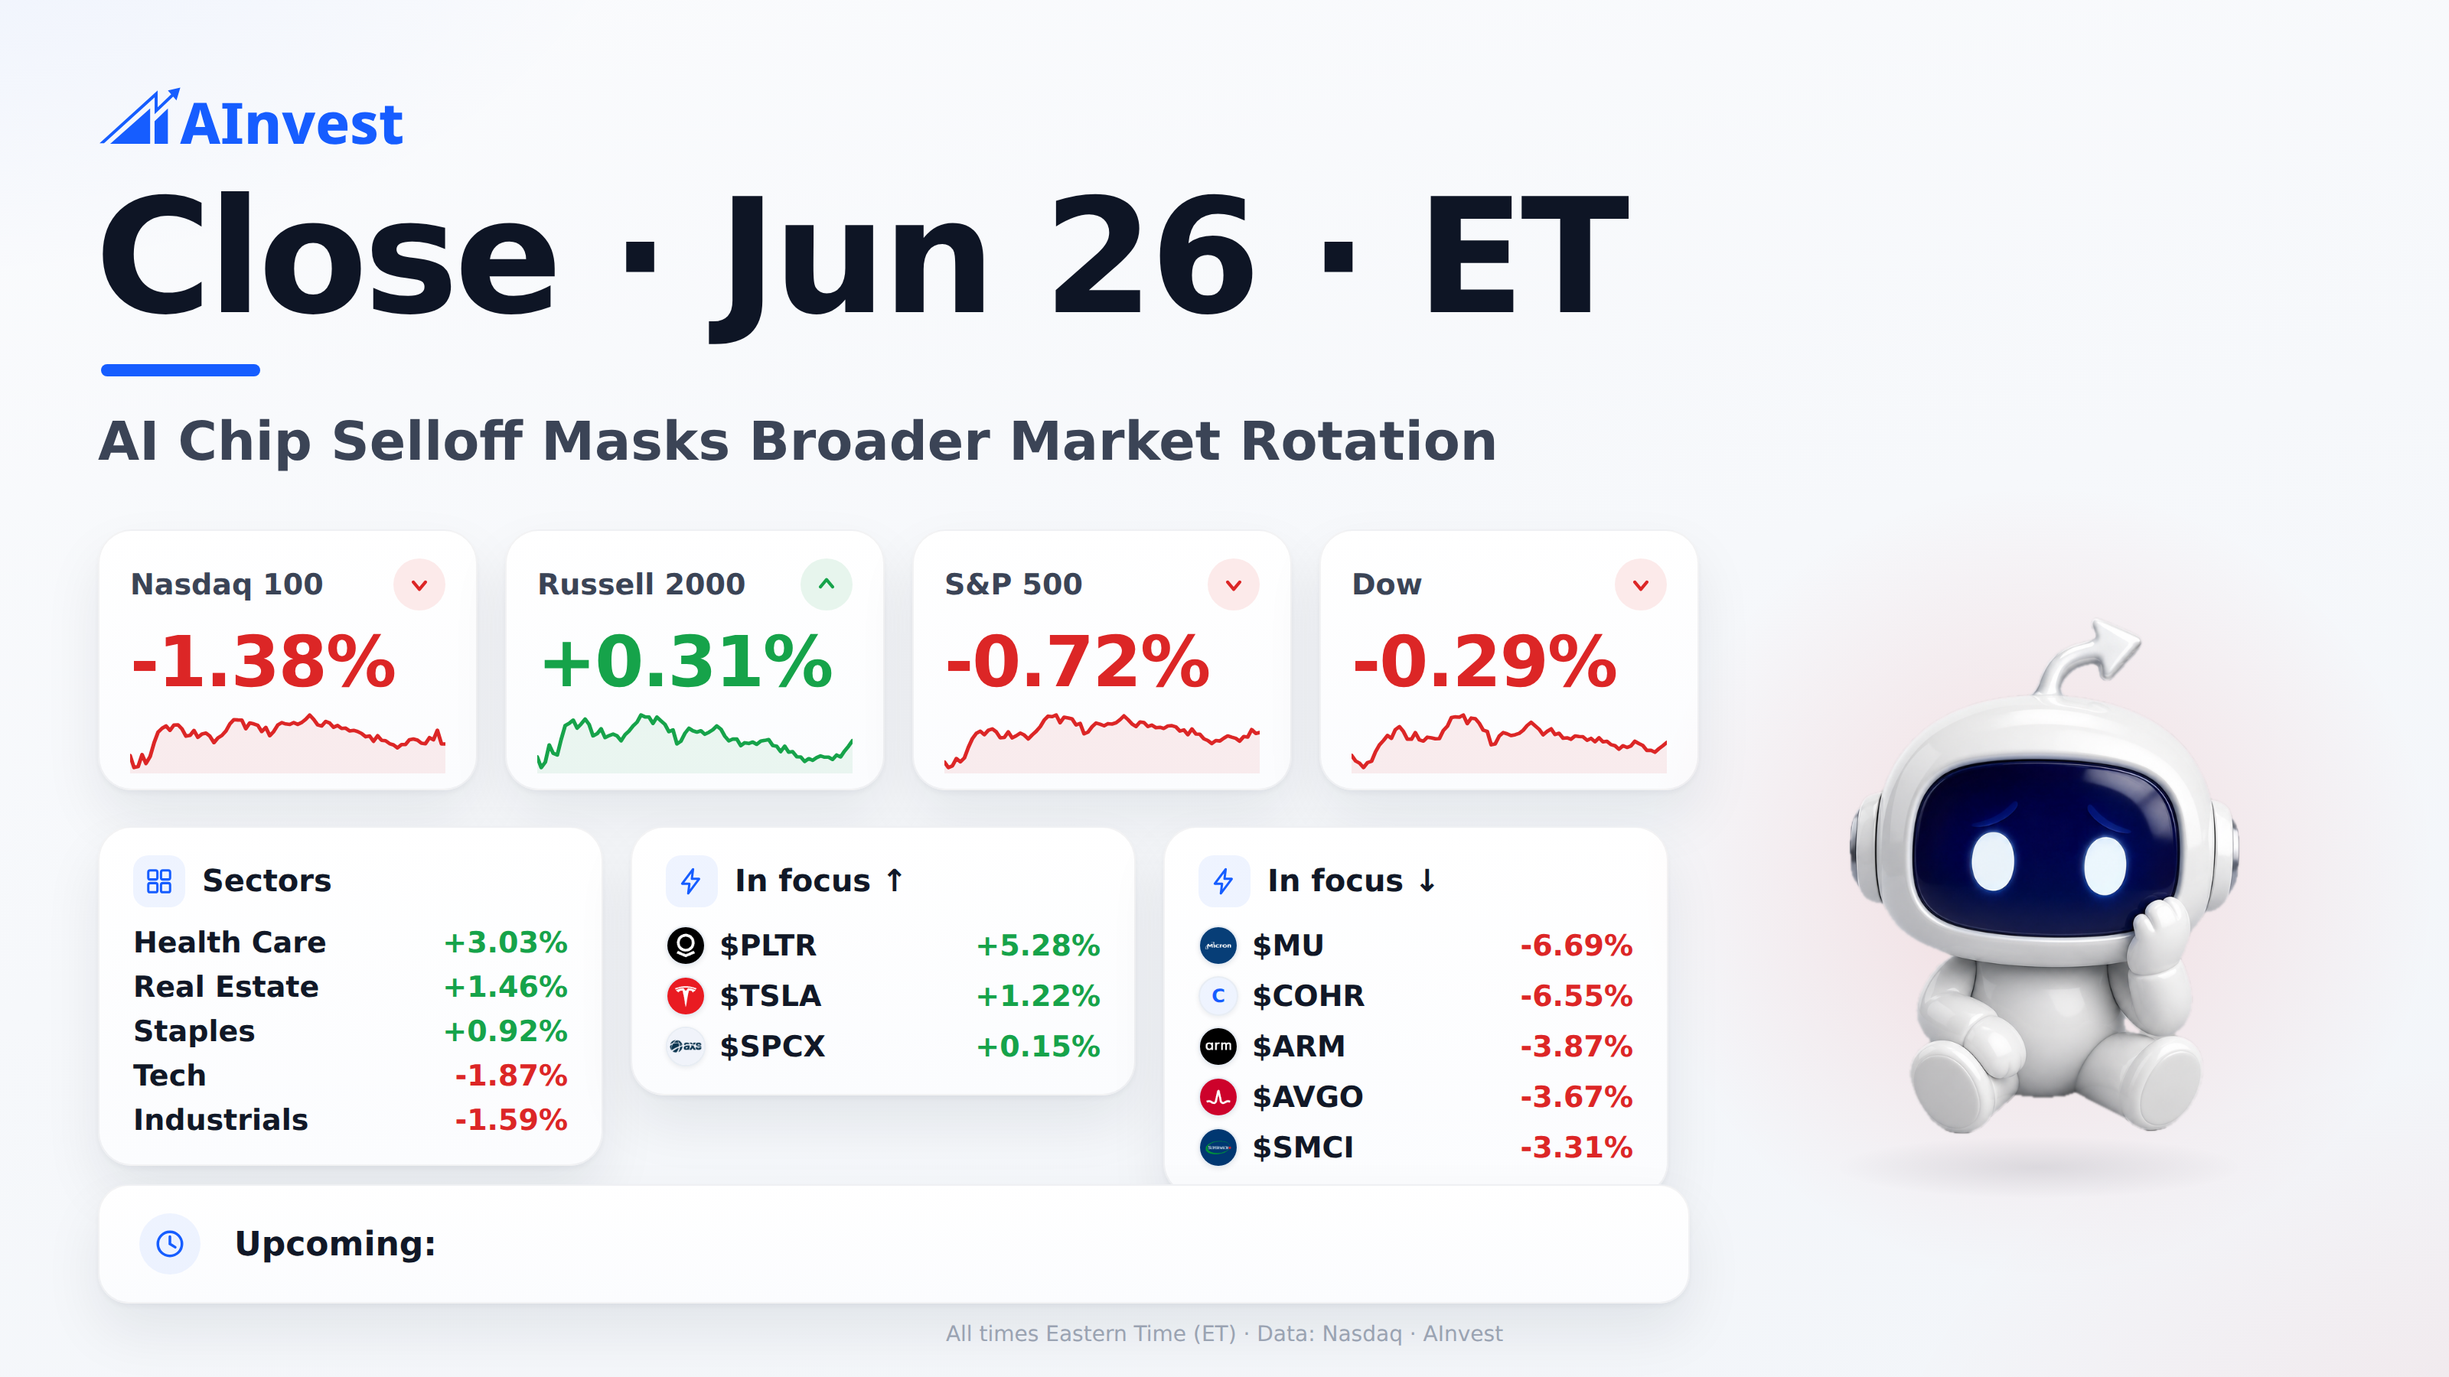
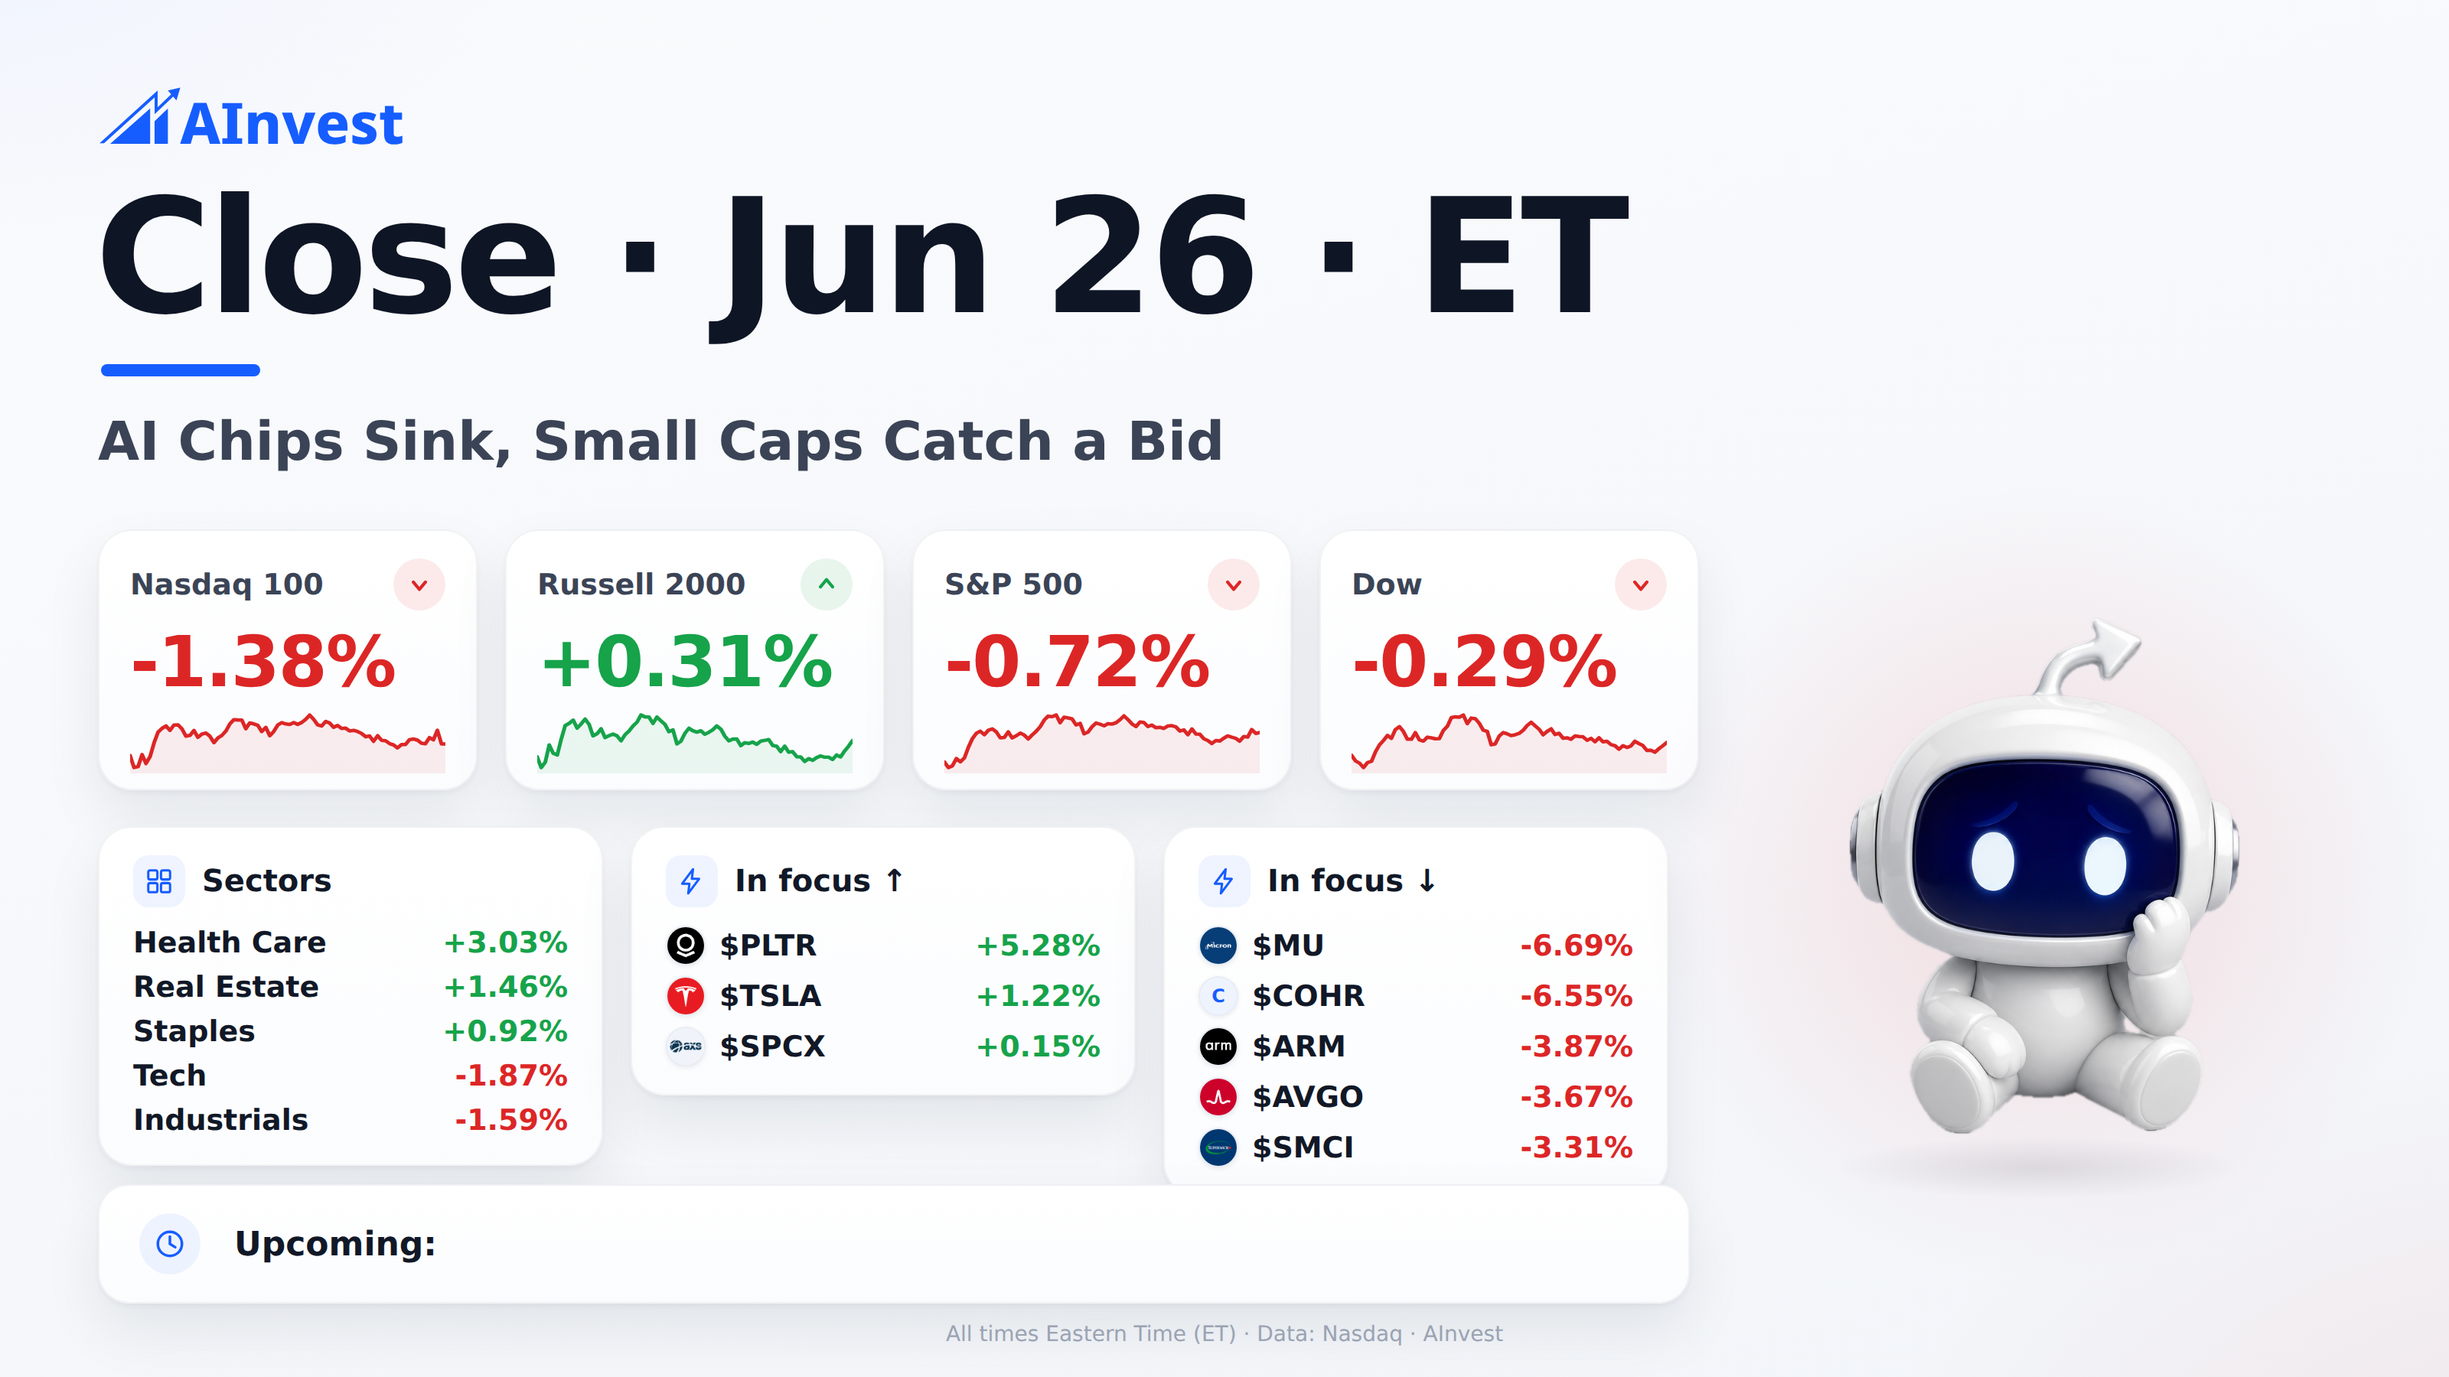
report: 收盘复盘 + 卡片 2026-06-26(线上 Claude Opus 4.8)

Changed region(s): [[0.125, 0.28, 0.625, 0.3422]]

diff --git a/data/reports/close_20260626.md b/data/reports/close_20260626.md
@@ -1,59 +1,58 @@
 # 收盘复盘 · 06-26(美东收盘)
 
-_收盘数据 · 2026-06-26 22:32 ET · 我不是股神 · 非投资建议_
+_收盘数据 · 2026-06-26 22:47 ET · 我不是股神 · 非投资建议_
 
 ## 1. 一句话定调
 
-今天不是“全市场崩”，而是**AI/半导体这条最拥挤的主线继续被拆仓**：纳指100收跌 **1.38%**，标普500跌 **0.72%**，道指只跌 **0.29%**，罗素2000反而涨 **0.31%**。这根 K 线的核心很清楚：资金不是离开美股，而是从高估值科技、AI硬件链里撤出来，去找更便宜、更不拥挤、事件驱动更强的地方。
+今天这根 K 线很清楚：大盘不是全面崩，是**科技权重继续被卖，小盘和部分非科技在接盘**。标普500收跌 **0.72%**，纳指100跌 **1.38%**，道指只跌 **0.29%**，罗素2000反而涨 **0.31%**。这不是“风险偏好归零”，而是资金在把过去最拥挤的 AI/半导体仓位往外挤，顺手找还能讲独立故事的票避风。
 
 ## 2. 今天的主线
 
-**第一条：AI交易继续退潮，芯片是卖压中心。**  
-今天最刺眼的不是指数跌，而是半导体内部的跌法。ON 收跌 **23.66%**，FORM 跌 **12.11%**，CRDO 跌 **11.20%**，COHR 跌 **6.55%**；热门追踪里 MU 跌 **6.69%**，AVGO 跌 **3.67%**，ARM 跌 **3.87%**，SMCI 跌 **3.31%**，NVDA 跌 **1.64%**，AMD 跌 **2.06%**。这不是某一只财报没讲好，这是资金在重新给“AI资本开支—芯片—服务器—光通信”整条链条定价。
+**第一条：AI 交易继续降温，芯片链是今天的主要出血口。**  
+纳指100跌 **1.38%**，明显弱于道指和小盘，核心原因不是宏观突然变天，而是科技股内部的“估值耐心”在下降。新闻面上，市场被 OpenAI IPO 延迟报道扰动，叠加多家媒体都在讲 AI 股票再度回撤、芯片股拖累纳指，资金今天选择先卖再说。  
+个股上，MU 收跌 **6.69%**，COHR 跌 **6.55%**，ARM 跌 **3.87%**，AVGO 跌 **3.67%**，SMCI 跌 **3.31%**，AMD 跌 **2.06%**，NVDA 跌 **1.64%**。这组跌法的重点不是“AI 完了”，而是市场开始区分：谁是确定现金流，谁只是估值里塞满未来故事。最刺眼的是 ON 暴跌 **23.66%**，FORM 跌 **12.11%**，CRDO 跌 **11.20%**，说明今天卖盘不是只砍一两只龙头，而是沿着半导体链条扩散。
 
-新闻里有两条很关键：一是市场报道 OpenAI IPO 延迟，直接打击了AI资产“终局估值”的想象；二是 Oracle 本周大跌，市场开始盯上 AI融资、自由现金流和债务压力。过去这条线的叙事是：只要AI需求存在，资本开支就是利好。今天市场开始反问：谁来付钱？什么时候回本？如果融资成本、现金流和订单兑现速度跟不上，硬件链的高估值就会先被杀。
+**第二条：AI 基建融资焦虑在发酵，市场开始重新算账。**  
+Oracle 本周大跌的新闻被反复提到，焦点是 AI 支出、负自由现金流和债务压力。今天这个信号很关键：过去市场买 AI，是默认“只要需求够大，资本开支不是问题”；现在资金开始问“钱从哪里来，回报什么时候来”。  
+这也是为什么同样是 AI 相关，今天不是所有票一起跌。PLTR 反而涨 **5.28%**，说明市场并不是厌恶 AI 三个字，而是在从“算力军备竞赛”切向“软件化、现金流、应用落地”的叙事。换句话说，今天卖的是资本开支压力，买的是更轻资产、更容易讲利润率的 AI 应用故事。
 
-**第二条：指数跌，但小票和事件票有买盘。**  
-罗素2000今天涨 **0.31%**，这点很反共识。大盘红不起来，不代表没有风险偏好；只是风险偏好从“买最大、买最贵、买AI共识”切到“买弹性、买低拥挤、买独立催化”。涨幅榜里 MRNA 涨 **12.59%**，IBRX 涨 **11.81%**，BDRX 涨 **16.80%**，医疗/生物科技明显有资金承接；DKNG 涨 **11.26%**，CHYM 涨 **11.22%**，FROG 涨 **11.14%**，FDS 涨 **10.97%**，FIG 涨 **10.57%**，说明今天不是纯避险盘，而是“卖拥挤、买分散”。
-
-这也是今天容易被误读的地方：很多人只看纳指跌，就以为市场风险偏好崩了。其实今天更像是**内部再平衡**。AI链被砍，非AI成长、医疗、软件、消费互联网里反而出现了短线抢筹。
-
-**第三条：地缘风险抬头，能源和避险叙事重新插队。**  
-Reuters 消息显示，美国对伊朗进行打击，伊朗革命卫队称对地区美方目标作出回应；MarketWatch 也提到油价盘后上行。这个背景下，市场不一定立刻全面risk-off，但它会改变资金的“容错率”：高估值科技最怕不确定性，因为它吃的是远期现金流；一旦油价、地缘、利率预期一起扰动，最先被砍的就是久期最长、交易最拥挤的资产。
+**第三条：防御和事件驱动票在冒头，说明市场不是没钱，是换地方。**  
+MRNA 涨 **12.59%**，IBRX 涨 **11.81%**，BDRX 涨 **16.80%**，医疗/生物科技今天明显有资金点火；DKNG 涨 **11.26%**，CHYM 涨 **11.22%**，FROG 涨 **11.14%**，FDS 涨 **10.97%**，FIG 涨 **10.57%**，这些不是指数权重的主战场，却有强烈的相对强度。  
+这说明一个反共识点：今天不是熊市式无差别抛售。真正发生的是，资金把拥挤的科技主线降杠杆，同时去追更独立的财报、消息、行业弹性。指数难看，但内部并不死。
 
 ## 3. 热门追踪
 
-- **SPCX** 收涨 **0.15%**，报 **153.23美元**；SpaceX相关消息里有大额债券发行与IPO交易讨论，股价今天只是微涨，说明事件热度还在，但追高动能明显降温。  
-- **MU** 收跌 **6.69%**，报 **1,132.33美元**；新闻称其经历剧烈波动后下跌，今天属于AI/存储交易里被集中兑现的一只。  
-- **NVDA** 收跌 **1.64%**，报 **192.53美元**；跌幅不算最惨，但作为AI核心锚，没能稳住板块情绪。  
-- **AVGO** 收跌 **3.67%**，报 **365.02美元**；即便有机构维持正面评级的消息，今天资金仍先按半导体拥挤交易处理。  
-- **AMD** 收跌 **2.06%**，报 **521.58美元**；跟随AI芯片链回调，新闻讨论更多是相对竞争叙事，没能形成独立买盘。  
-- **ARM** 收跌 **3.87%**，报 **334.27美元**；AI和半导体IP叙事被一起降温，今天属于估值敏感型下杀。  
-- **SMCI** 收跌 **3.31%**，报 **30.63美元**；服务器链继续受AI资本开支疑问拖累。  
-- **PLTR** 收涨 **5.28%**，报 **112.93美元**；今天在科技普跌里逆势，说明软件AI和国防/数据叙事仍有独立资金。  
-- **TSLA** 收涨 **1.22%**，报 **379.71美元**；逆势偏强，今天更像是脱离芯片链的个股资金选择。  
-- **COHR** 收跌 **6.55%**，报 **380.56美元**；光通信/AI基础设施链被一起卖，弹性越高，今天回撤越狠。
+- **SPCX** 收涨 **0.15%**，收在 **$153.23**；消息面有 **250亿美元债券发行**和加入纳指100的报道，股价小涨，说明被动资金测试和融资压力在对冲。  
+- **MU** 收跌 **6.69%**，收在 **$1,132.33**；新闻称其本周波动剧烈，今天资金选择兑现，属于半导体调整里的核心受压票。  
+- **NVDA** 收跌 **1.64%**，收在 **$192.53**；没有最弱，但在 AI 退潮日也没能独善其身，说明龙头仍被当作流动性提款机。  
+- **AVGO** 收跌 **3.67%**，收在 **$365.02**；虽有券商维持买入和 OpenAI 相关 AI 芯片报道，但今天市场更在意科技估值和 AI 融资担忧。  
+- **AMD** 收跌 **2.06%**，收在 **$521.58**；随芯片链回落，今天不是个股故事主导，而是板块仓位压缩。  
+- **ARM** 收跌 **3.87%**，收在 **$334.27**；在 AI/芯片降温里被同步卖出，说明高估值半导体 IP 也难躲风险重估。  
+- **SMCI** 收跌 **3.31%**，收在 **$30.63**；AI 服务器链条继续承压，市场对硬件资本开支的敏感度在升高。  
+- **PLTR** 收涨 **5.28%**，收在 **$112.93**；逆势走强，是今天 AI 里少数被资金当成“应用端避风口”的票。  
+- **TSLA** 收涨 **1.22%**，收在 **$379.71**；逆着纳指走强，说明今天它没有被简单归入被砍的科技权重篮子。  
+- **COHR** 收跌 **6.55%**，收在 **$380.56**；光通信/AI 硬件链条被卖，和半导体链条的风险释放同频。
 
 ## 4. 消息面
 
-1. **OpenAI IPO延迟报道打到科技估值锚。**  
-Yahoo Finance 提到相关报道扰动科技股。市场真正担心的不是一个IPO日期，而是AI资产退出路径、融资能力和估值参照物。如果最核心的AI私有资产节奏放慢，二级市场里已经涨过一轮的AI硬件股自然先被重新定价。
+**OpenAI IPO 延迟报道扰动科技情绪。**  
+Yahoo Finance 提到 OpenAI IPO 延迟报道令科技股承压。重点不是 IPO 本身，而是它打断了市场对 AI 资产“持续升温、持续变现”的线性想象。AI 交易最怕的不是坏消息，是节奏变慢。
 
-2. **AI融资疑虑从软件云端传导到硬件链。**  
-CNBC 提到 Oracle 本周表现为2001年以来最差周之一，市场关注AI支出、自由现金流和债务压力。这个信号很重要：AI故事开始从“需求无限”进入“资产负债表能不能扛住”的阶段。今天芯片跌，不只是芯片自己的问题，是买方开始审查整个AI资本开支循环。
+**芯片股拖累纳指，纳指连续走弱成为市场共识。**  
+CNBC 提到纳指连续第五个交易日下跌、芯片股下挫；WSJ 和 Investopedia 也强调科技抛售延续。今天资金没有等新叙事来拯救，而是先从最拥挤的半导体仓位里撤出来。
 
-3. **纳指连续走弱，技术面让卖盘更机械化。**  
-CNBC称纳指周五录得第五个下跌交易日，WSJ和Investopedia也指向科技抛售延续。连续下跌会触发趋势资金、风险预算和止损盘一起动作，所以今天很多AI链个股不是慢慢跌，而是成片被砍。
+**AI 基建融资担忧开始从个股扩散到板块估值。**  
+Oracle 本周表现被 CNBC 指向 AI 开支、负自由现金流和债务压力。这个消息对市场的杀伤力在于，它把 AI 从“增长故事”拉回“资产负债表故事”。资金开始问：谁出钱、谁承担折旧、谁最后赚钱。
 
-4. **中东风险抬升，油价盘后走高。**  
-Reuters 报道美国对伊朗实施打击、伊朗方面称回应；MarketWatch称油价盘后上涨。地缘冲突不一定每天都主导股市，但它会提高宏观不确定性，压低市场愿意给远期成长股的估值倍数。
+**地缘风险推高油价盘后波动。**  
+Reuters 报道美国对伊朗实施打击，伊朗革命卫队称回应美方区域目标；MarketWatch 提到油价盘后上涨。今天正股盘中主线仍是科技杀估值，但盘后油价和地缘风险会成为接下来宏观定价的噪音源。
 
 ## 5. 盘后 & 明日看点
 
-财报日历里，今天相关公司包括 **Air T Inc.（AIRT）**、**Apogee Enterprises Inc.（APOG，盘前）**、**BTM**、**CDT Equity Inc.（CDT）**、**Calamos Long/Short Equity & Dynamic Income Trust（CPZ）**、**Neuberger Next Generation Connectivity Fund Inc.（NBXG）**、**PEVM**。其中有些没有给出盘前/盘后时段或公司名，就只按代码看。
+今天财报名单里有 **Air T Inc.（AIRT）**、**Apogee Enterprises Inc.（APOG，盘前）**、**CDT Equity Inc.（CDT）**、**Calamos Long/Short Equity & Dynamic Income Trust（CPZ）**、**Neuberger Next Generation Connectivity Fund Inc.（NBXG）**，以及 **BTM、PEVM**。这些不是今晚市场最拥挤的主线，但会给小盘和特定行业情绪提供边际反馈。
 
-明天真正的大看点不在某一只小财报，而在三件事：第一，AI链能不能止住“卖拥挤”的惯性；第二，地缘冲突和油价会不会继续推高宏观风险溢价；第三，下周就业数据和利率押注会不会改变资金对高估值成长股的容忍度。市场现在赌的不是“AI有没有未来”，而是“今天这个价格，还能不能继续提前透支未来”。
+更大的看点不在某一份财报，而在三件事：第一，AI/芯片这轮回撤到底是短线去杠杆，还是估值框架开始换锚；第二，罗素2000今天逆势收红，是否说明资金继续从巨型科技流向小盘和非拥挤资产；第三，地缘冲突推升油价后，市场会不会重新把通胀和利率预期拉回牌桌。
 
 ## 6. 一句话
 
-今天最该记住的是：**美股没死，死的是无脑抱团AI的舒适区；资金还在场内，只是不再愿意为最拥挤的故事付最高的价格。**
+今天最该记住的不是“科技跌了”，而是：**市场还愿意承担风险，但不愿意继续无条件给 AI 硬件和高估值芯片付溢价。**
